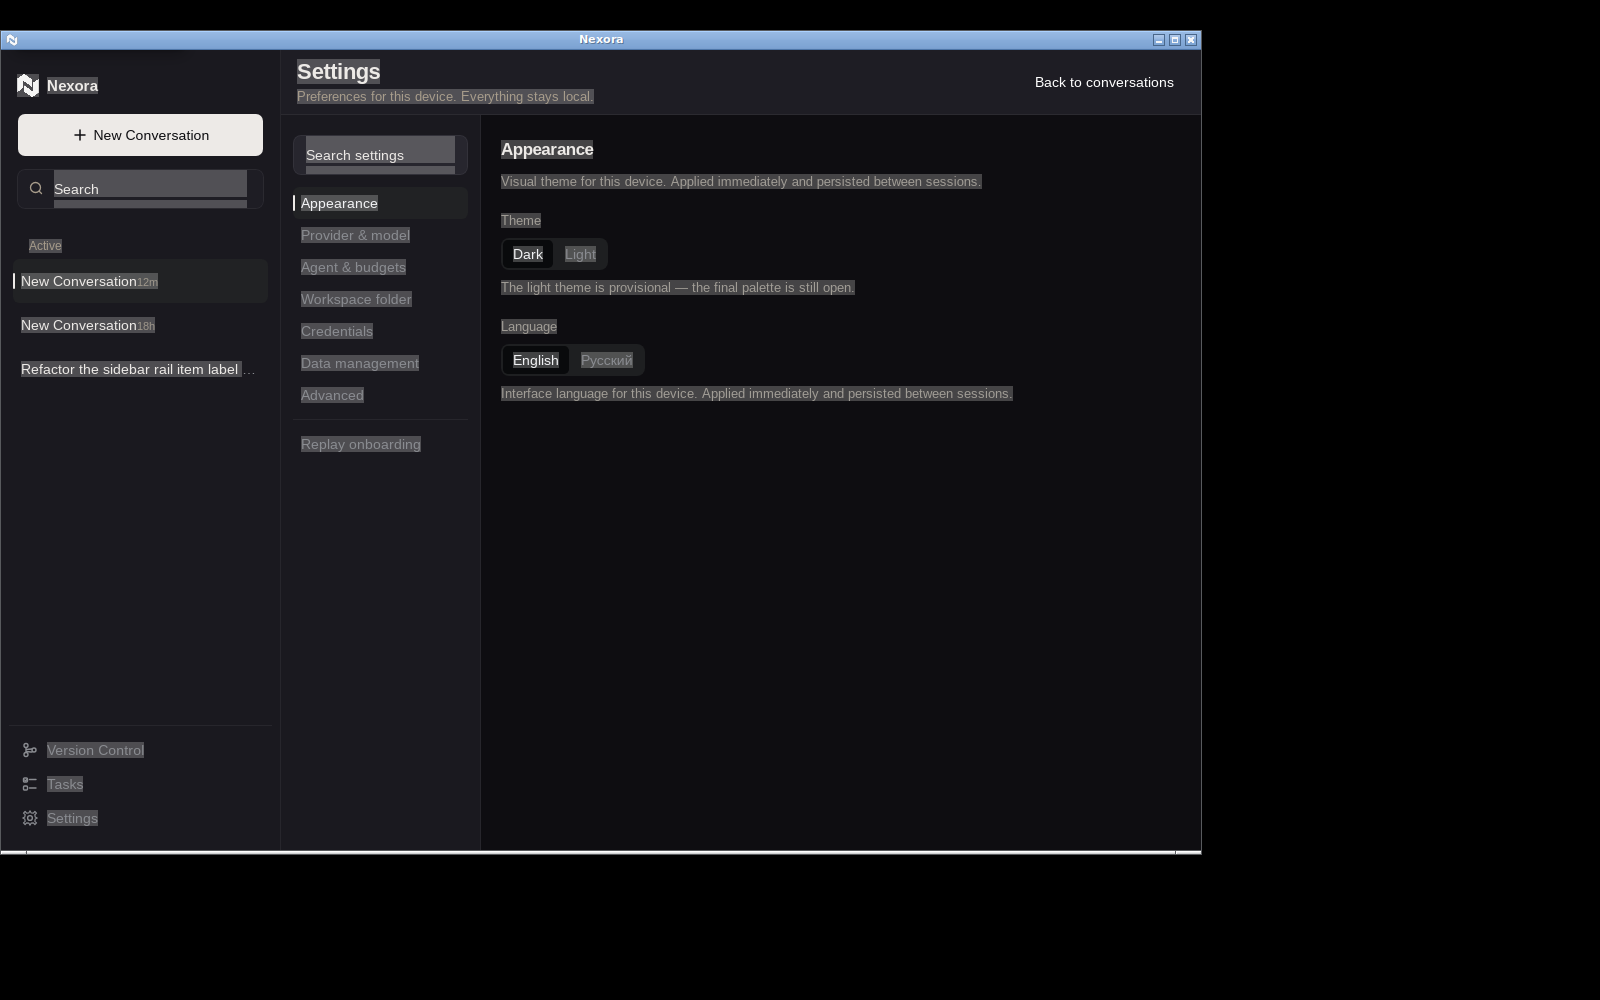
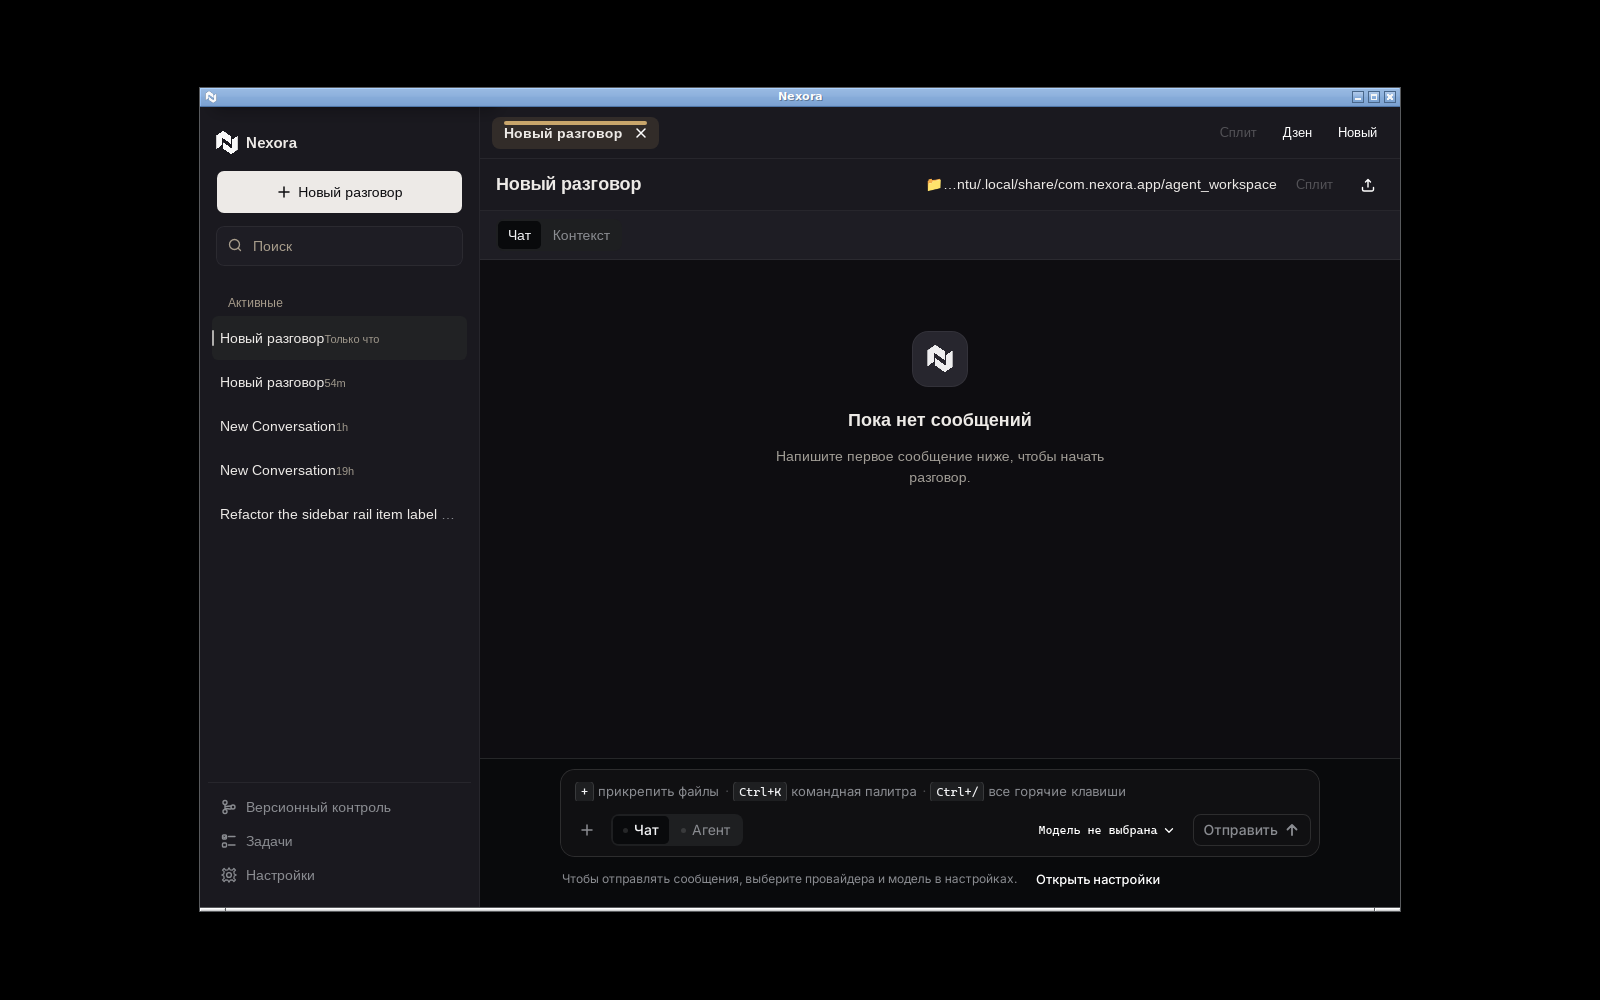
fix(#235): reviewer round 1 — amber focus ring, disabled Send, tick alpha, real search proof
F2  the app-wide focus ring was still M3E amber. theme.css:85 and
    components.css:445 both painted --nex-sys-focus-ring-color
    (rgba(201,166,107,0.75)) at 1.5px. Both now paint THEME §1's
    2px solid --ring + 2px offset. The theme.css comment claimed
    "component rules must not redefine ring width/color" while the
    field set below did exactly that; it now says what both do.

F3  the disabled primary washed a light fill to 50% opacity, leaving
    Send at ~2.3:1. THEME §1 asks for muted text, no fill, hairline.
    `default` now carries disabled:border-border disabled:bg-
    transparent disabled:text-muted-foreground, and disabled:opacity-
    100 cancels the base wash through tailwind-merge so the muted
    text keeps its 4.97:1 instead of being faded a second time.

F6  the three ticks painted --primary at 100% where THEME §2 says
    #EDEAE7B3 (70%). --tick is now declared in both theme blocks,
    aliased in @theme inline, and those three sites read it.

F1  the shot table claimed search beats the frames did not contain.
    Re-shot on the real build: 02 catches the inline spinner inside
    the 250ms debounce with no floating pill, 03 shows the results
    panel against the real FTS backend (a conversation seeded
    through the app itself, not a mock), and the duplicated pairs
    are gone.

F5/F7 the audit is now a committed script with its crop and
    thresholds in the source, so the figure is reproducible instead
    of a number in prose.

Fixes #235

diff --git a/src/index.css b/src/index.css
@@ -179,6 +179,7 @@
     --color-primary: var(--primary);
     --color-primary-hover: var(--primary-hover);
     --color-primary-pressed: var(--primary-pressed);
+    --color-tick: var(--tick);
     --color-popover-foreground: var(--popover-foreground);
     --color-popover: var(--popover);
     --color-card-foreground: var(--card-foreground);
@@ -331,6 +332,10 @@
     --primary-foreground: oklch(0.165 0.006 286);
     --primary-hover: oklch(0.965 0.006 85);
     --primary-pressed: oklch(0.871 0.009 78);
+    /* The 2px active tick: the light fill at 70% (THEME §2). A
+       dedicated token — not `bg-primary/70` scattered at three
+       call sites — so the alpha lives in one place. */
+    --tick: oklch(0.938 0.005 68 / 70%);
 
     /* Neutral roles, deliberately achromatic. */
     --secondary: oklch(0.24 0.004 264);
@@ -415,6 +420,10 @@
     --primary-foreground: oklch(0.938 0.005 68);
     --primary-hover: oklch(0.28 0.006 286);
     --primary-pressed: oklch(0.1 0.003 286);
+    /* Light-theme tick: the dark tone at 70%, so it reads on
+       white (D8 judgement — THEME §2 tables the dark canvas only,
+       noted in the #235 PR body). */
+    --tick: oklch(0.165 0.006 286 / 70%);
 
     --secondary: oklch(0.95 0.003 264);
     --secondary-foreground: oklch(0.18 0.004 264);

diff --git a/src/components/ui/button.tsx b/src/components/ui/button.tsx
@@ -43,8 +43,12 @@ const buttonVariants = cva(
         // src/index.css). Hover/pressed are explicit lightness
         // steps, NOT `bg-primary/80`: an opacity wash over dark
         // DARKENS, while the theme lightens on hover (#F5F3EF)
-        // and darkens on press (#D8D4CE).
-        default: "bg-primary text-primary-foreground hover:bg-primary-hover active:bg-primary-pressed",
+        // and darkens on press (#D8D4CE). Disabled is muted text
+        // with NO fill and a hairline border (THEME §1) — never a
+        // washed-out fill: `disabled:opacity-100` cancels the base
+        // wash via tailwind-merge, so the text keeps its 5.64:1.
+        default:
+          "bg-primary text-primary-foreground hover:bg-primary-hover active:bg-primary-pressed disabled:border-border disabled:bg-transparent disabled:text-muted-foreground disabled:opacity-100",
         outline:
           "border-border bg-background hover:bg-muted hover:text-foreground aria-expanded:bg-muted aria-expanded:text-foreground dark:border-input dark:bg-input/30 dark:hover:bg-input/50",
         secondary:

diff --git a/src/styles/components.css b/src/styles/components.css
@@ -437,15 +437,15 @@
    The global :focus-visible ring (theme.css) loses to the
    outline:none resets above on specificity, leaving only a
    sub-3:1 border shift (measured 2.98 dark / 1.65 light). These
-   :focus-visible rules restore the token ring on top of the
-   border-moment (blended ring 4.32:1 vs the field fill in dark;
-   high-contrast solid 2px). Tokens only, no new values. */
+   :focus-visible rules restore the mono theme ring on top of the
+   border-moment (THEME §1: 2px solid white 80% + 2px offset,
+   #235). Tokens only, no new values. */
 .nex-input:focus-visible,
 .nex-select:focus-visible,
 .nex-textarea:focus-visible,
 .nex-search-input:focus-visible {
-  outline: var(--nex-sys-focus-ring-width) solid var(--nex-sys-focus-ring-color);
-  outline-offset: var(--nex-sys-focus-ring-offset);
+  outline: 2px solid var(--ring);
+  outline-offset: 2px;
 }
 
 /* ============================================================

diff --git a/src/theme.test.ts b/src/theme.test.ts
@@ -443,8 +443,9 @@ describe("black theme — variable coverage", () => {
     // extractor lost 16 of 17; a set check makes a registry update
     // that introduces a colour utility a diff somebody has to read.
     // (#235: +`bg-primary-hover`/`bg-primary-pressed` — the
-    // light-fill hover/pressed steps — and
-    // +`ring-offset-background` — the 2px focus gap's paint.)
+    // light-fill hover/pressed steps — +`ring-offset-background`
+    // — the 2px focus gap's paint — and +`text-muted-foreground`
+    // — the disabled default's muted text, no fill.)
     expect(button).toEqual([
       "bg-background",
       "bg-destructive",
@@ -463,6 +464,7 @@ describe("black theme — variable coverage", () => {
       "ring-ring",
       "text-destructive",
       "text-foreground",
+      "text-muted-foreground",
       "text-primary",
       "text-primary-foreground",
       "text-secondary-foreground",

diff --git a/src/styles/composer.css b/src/styles/composer.css
@@ -297,7 +297,7 @@
 }
 
 .nex-composer-pills.nex-seg button.is-active .nex-composer-pill-dot {
-  background: var(--primary);
+  background: var(--tick);
 }
 
 /* ---- Mode / model picker ---------------------------------------------- */
@@ -367,8 +367,8 @@
   font-weight: 400;
 }
 
-/* The tick. Width 2px, full row height, the light fill — the
-   only bright mark in the menu. */
+/* The tick. Width 2px, full row height, the light fill at 70%
+   (`--tick`) — the only bright mark in the menu. */
 .nex-composer-model-list.nex-seg button.is-active::before {
   content: "";
   position: absolute;
@@ -377,7 +377,7 @@
   bottom: 4px;
   width: 2px;
   border-radius: var(--radius-3xl);
-  background: var(--primary);
+  background: var(--tick);
 }
 
 .nex-composer-model-empty {

diff --git a/src/styles/theme.css b/src/styles/theme.css
@@ -79,10 +79,12 @@ input, textarea, select {
 }
 
 /* ---- Focus ring (keyboard accessibility) ----
-   Single app-wide treatment: thin accent ring via tokens. Component
-   rules must not redefine ring width/color — dense rows use the
-   inset offset variant instead. */
+   THEME §1 (owner decision 2026-10-15, mono — #235): 2px solid
+   white 80% + 2px offset, everywhere. The colour is the theme's
+   `--ring` (src/index.css, per data-theme); component rules must
+   not redefine ring width/color — dense rows use the inset offset
+   variant instead. */
 :focus-visible {
-  outline: var(--nex-sys-focus-ring-width) solid var(--nex-sys-focus-ring-color);
-  outline-offset: var(--nex-sys-focus-ring-offset);
+  outline: 2px solid var(--ring);
+  outline-offset: 2px;
 }

diff --git a/src/components/M3RailItem.tsx b/src/components/M3RailItem.tsx
@@ -58,7 +58,7 @@ export default function M3RailItem({
     >
       {active ? (
         <span
-          className="absolute top-1/2 left-0 h-4 w-0.5 -translate-y-1/2 rounded-full bg-primary"
+          className="absolute top-1/2 left-0 h-4 w-0.5 -translate-y-1/2 rounded-full bg-tick"
           aria-hidden="true"
         />
       ) : null}

diff --git a/docs/visual-proof/235/audit.py b/docs/visual-proof/235/audit.py
@@ -1,0 +1,83 @@
+#!/usr/bin/env python3
+"""Amber/blue pixel audit for the #235 visual proof.
+
+Reproducible, self-contained. Run from the repo root:
+
+    python3 docs/visual-proof/235/audit.py
+
+It crops the window-manager title bar off the top of every frame
+(openbox's own light-blue decoration, not the app) and then reports,
+per shot:
+  * blue  : hue 195-275 deg, saturation > 0.25, value > 0.15
+  * amber : the same saturation/value gate, hue OUTSIDE 195-275
+  * tint  : RGB channel spread > 24/255, i.e. max(r,g,b) - min(r,g,b).
+            Neither of the other two is usable as a "how neutral is
+            this UI" metric: OKLCH `c` is a different unit, and HSV
+            saturation is max-min over max, so a near-neutral dark
+            tone like (26,25,31) scores s=0.19. The channel spread
+            is unit-free and is what actually reads as colour.
+Percentages are of the cropped frame's pixels.
+"""
+import colorsys
+import glob
+import os
+import subprocess
+import sys
+
+# The app's client area starts below openbox's title bar, which paints a
+# light-blue (#ADD3FF) band ~19px tall at y=88..106 on this 1600x1000
+# screen. The crop below starts at 120 so no row of the title bar can
+# reach the measurement. Verified by running the row-scan in the PR body.
+APP_CROP = "1600x880+0+120"
+
+
+def load(path):
+    return subprocess.run(
+        ["convert", path, "-crop", APP_CROP, "+repage", "-depth", "8", "rgb:-"],
+        capture_output=True,
+    ).stdout
+
+
+def audit(path):
+    raw = load(path)
+    total = len(raw) // 3
+    blue = amber = tint = 0
+    for i in range(0, len(raw) - 2, 3):
+        r8, g8, b8 = raw[i], raw[i + 1], raw[i + 2]
+        r, g, b = r8 / 255, g8 / 255, b8 / 255
+        if max(r8, g8, b8) - min(r8, g8, b8) > 24:
+            tint += 1
+        h, s, v = colorsys.rgb_to_hsv(r, g, b)
+        if s > 0.25 and v > 0.15:
+            if 195 <= h * 360 <= 275:
+                blue += 1
+            else:
+                amber += 1
+    return total, blue, amber, tint
+
+
+def main():
+    here = os.path.dirname(os.path.abspath(__file__))
+    shots = sorted(glob.glob(os.path.join(here, "*.png")))
+    if not shots:
+        sys.exit("no shots found next to this script")
+    print(f"{'shot':32s} {'px':>9s} {'blue':>6s} {'amber':>7s} {"tint spread>24":>16s}")
+    worst_blue = worst_amber = worst_tint = 0.0
+    for shot in shots:
+        total, blue, amber, tint = audit(shot)
+        name = os.path.basename(shot)
+        print(
+            f"{name:32s} {total:9d} {blue:6d} {amber:7d} "
+            f"{tint:8d} ({tint / total * 100:.3f}%)"
+        )
+        worst_blue = max(worst_blue, blue / total * 100)
+        worst_amber = max(worst_amber, amber / total * 100)
+        worst_tint = max(worst_tint, tint / total * 100)
+    print()
+    print(f"worst blue  : {worst_blue:.3f}% of frame")
+    print(f"worst amber : {worst_amber:.3f}% of frame")
+    print(f"worst tint  : {worst_tint:.3f}% of frame (spread > 24)")
+
+
+if __name__ == "__main__":
+    main()
